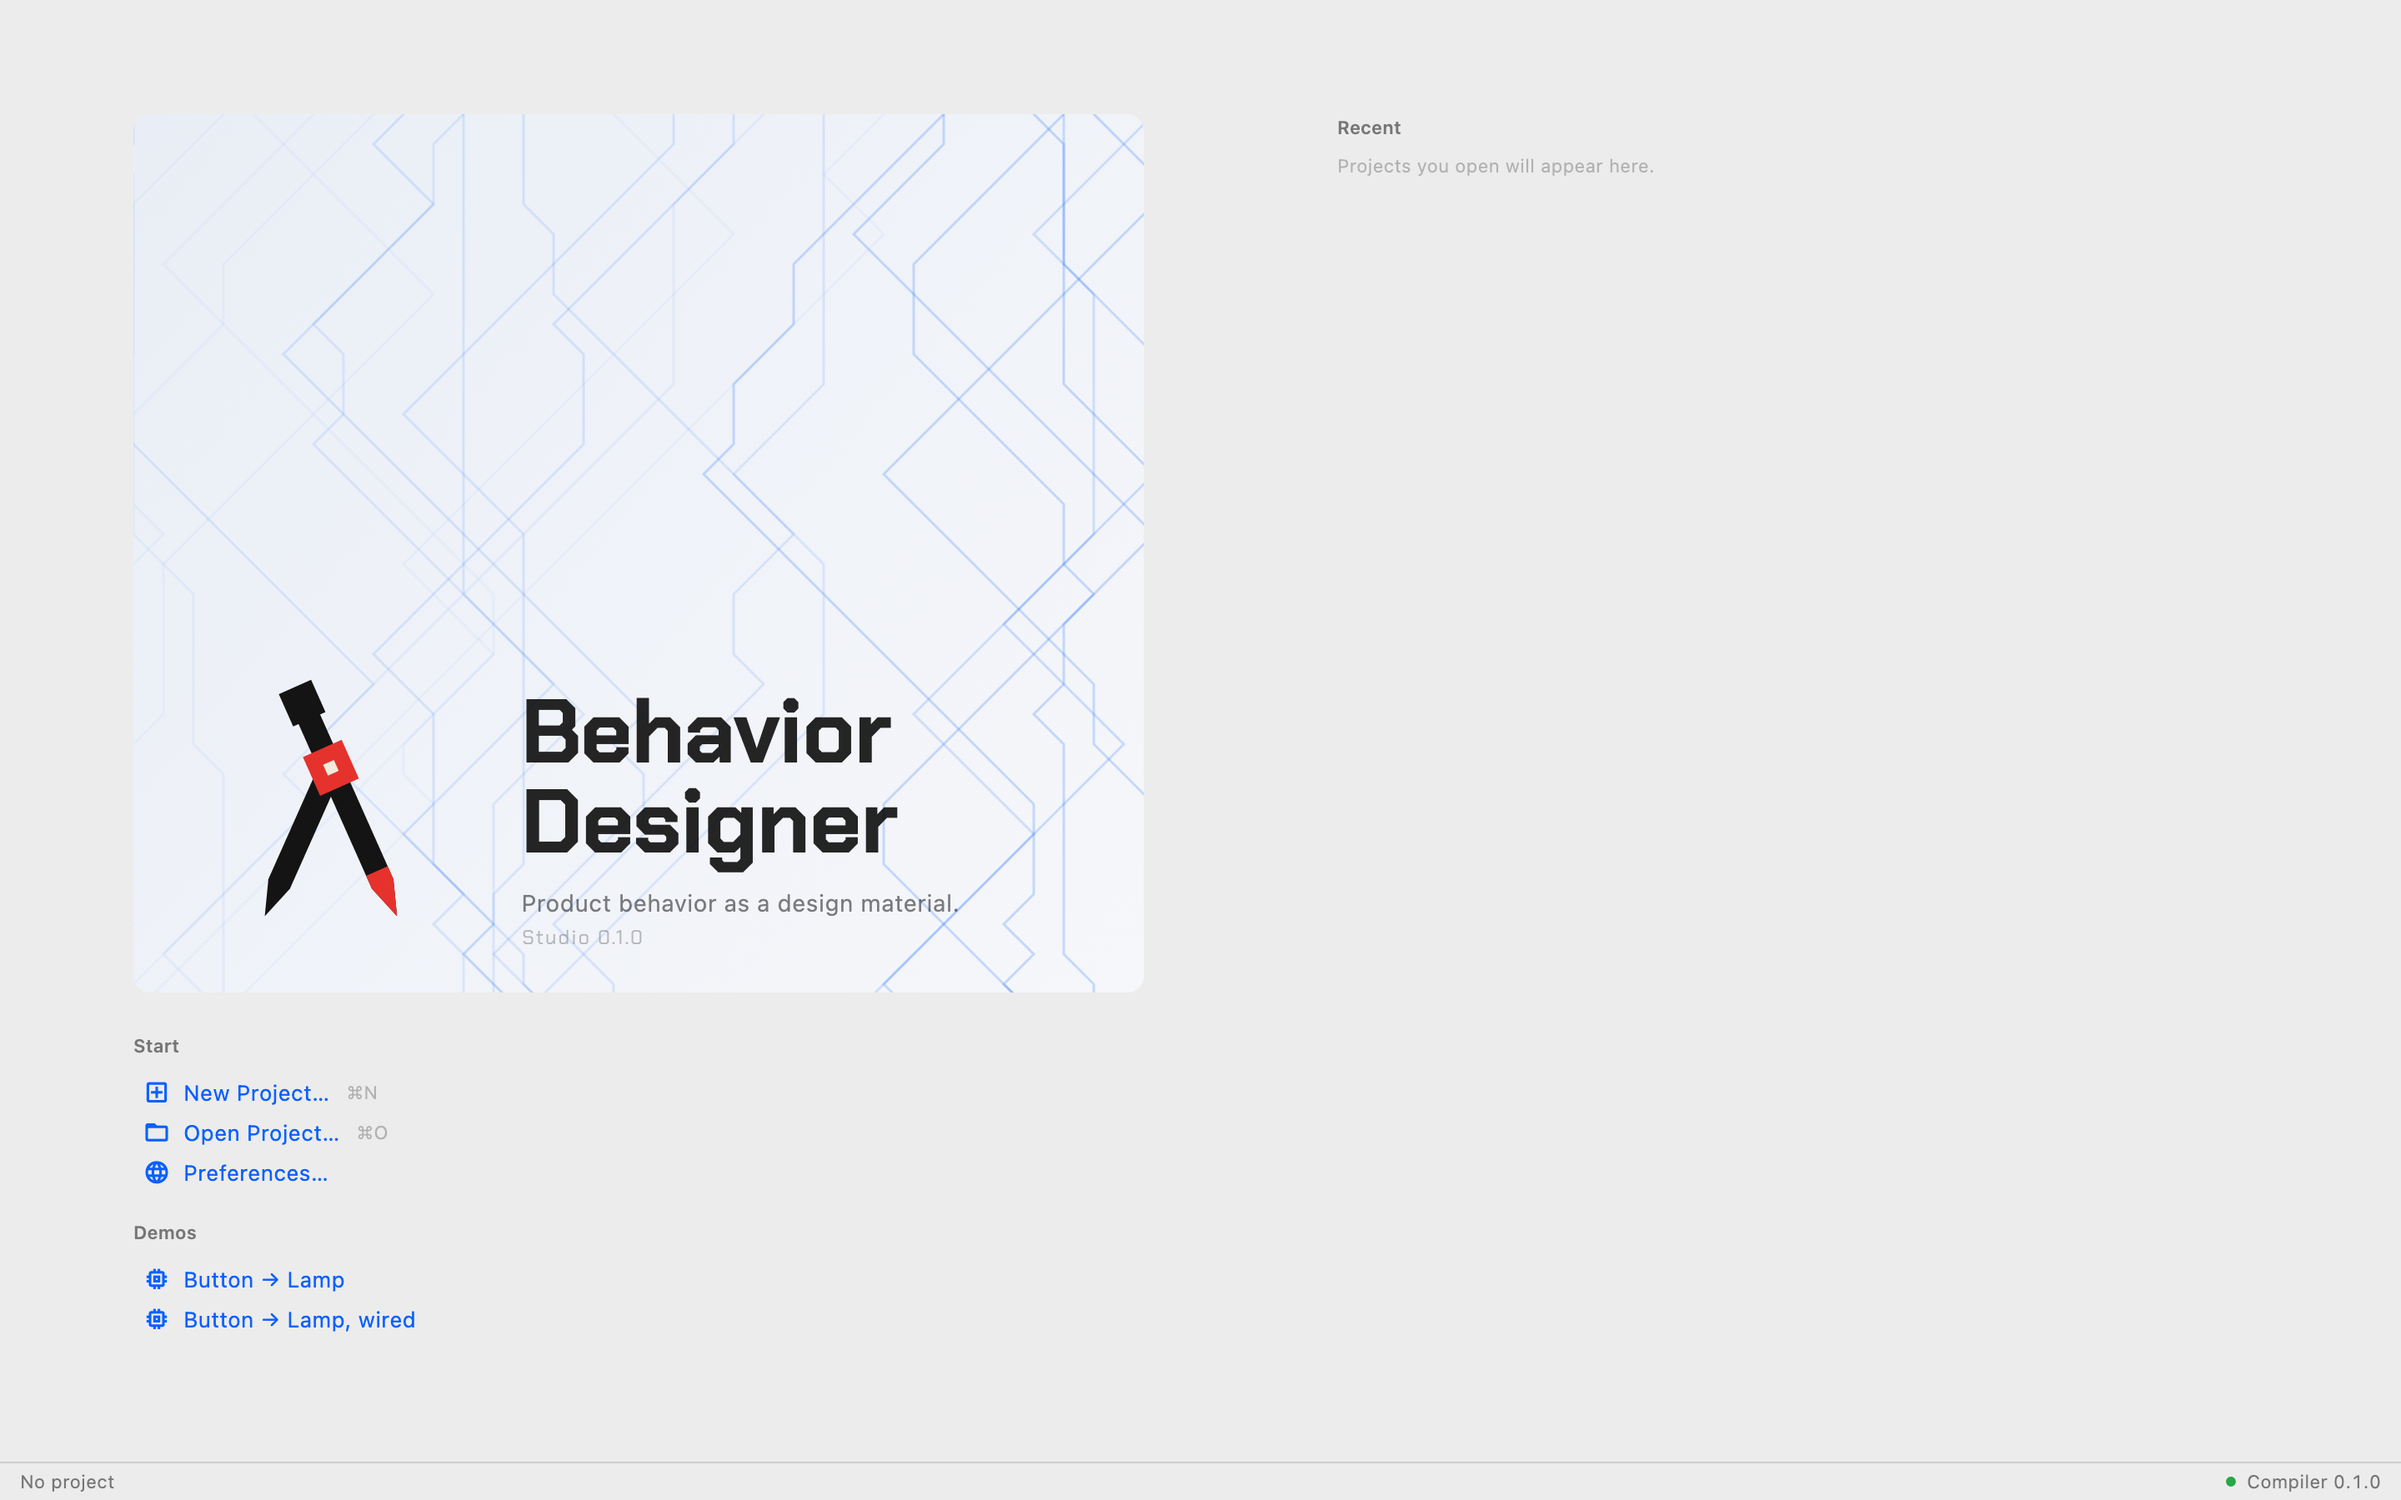
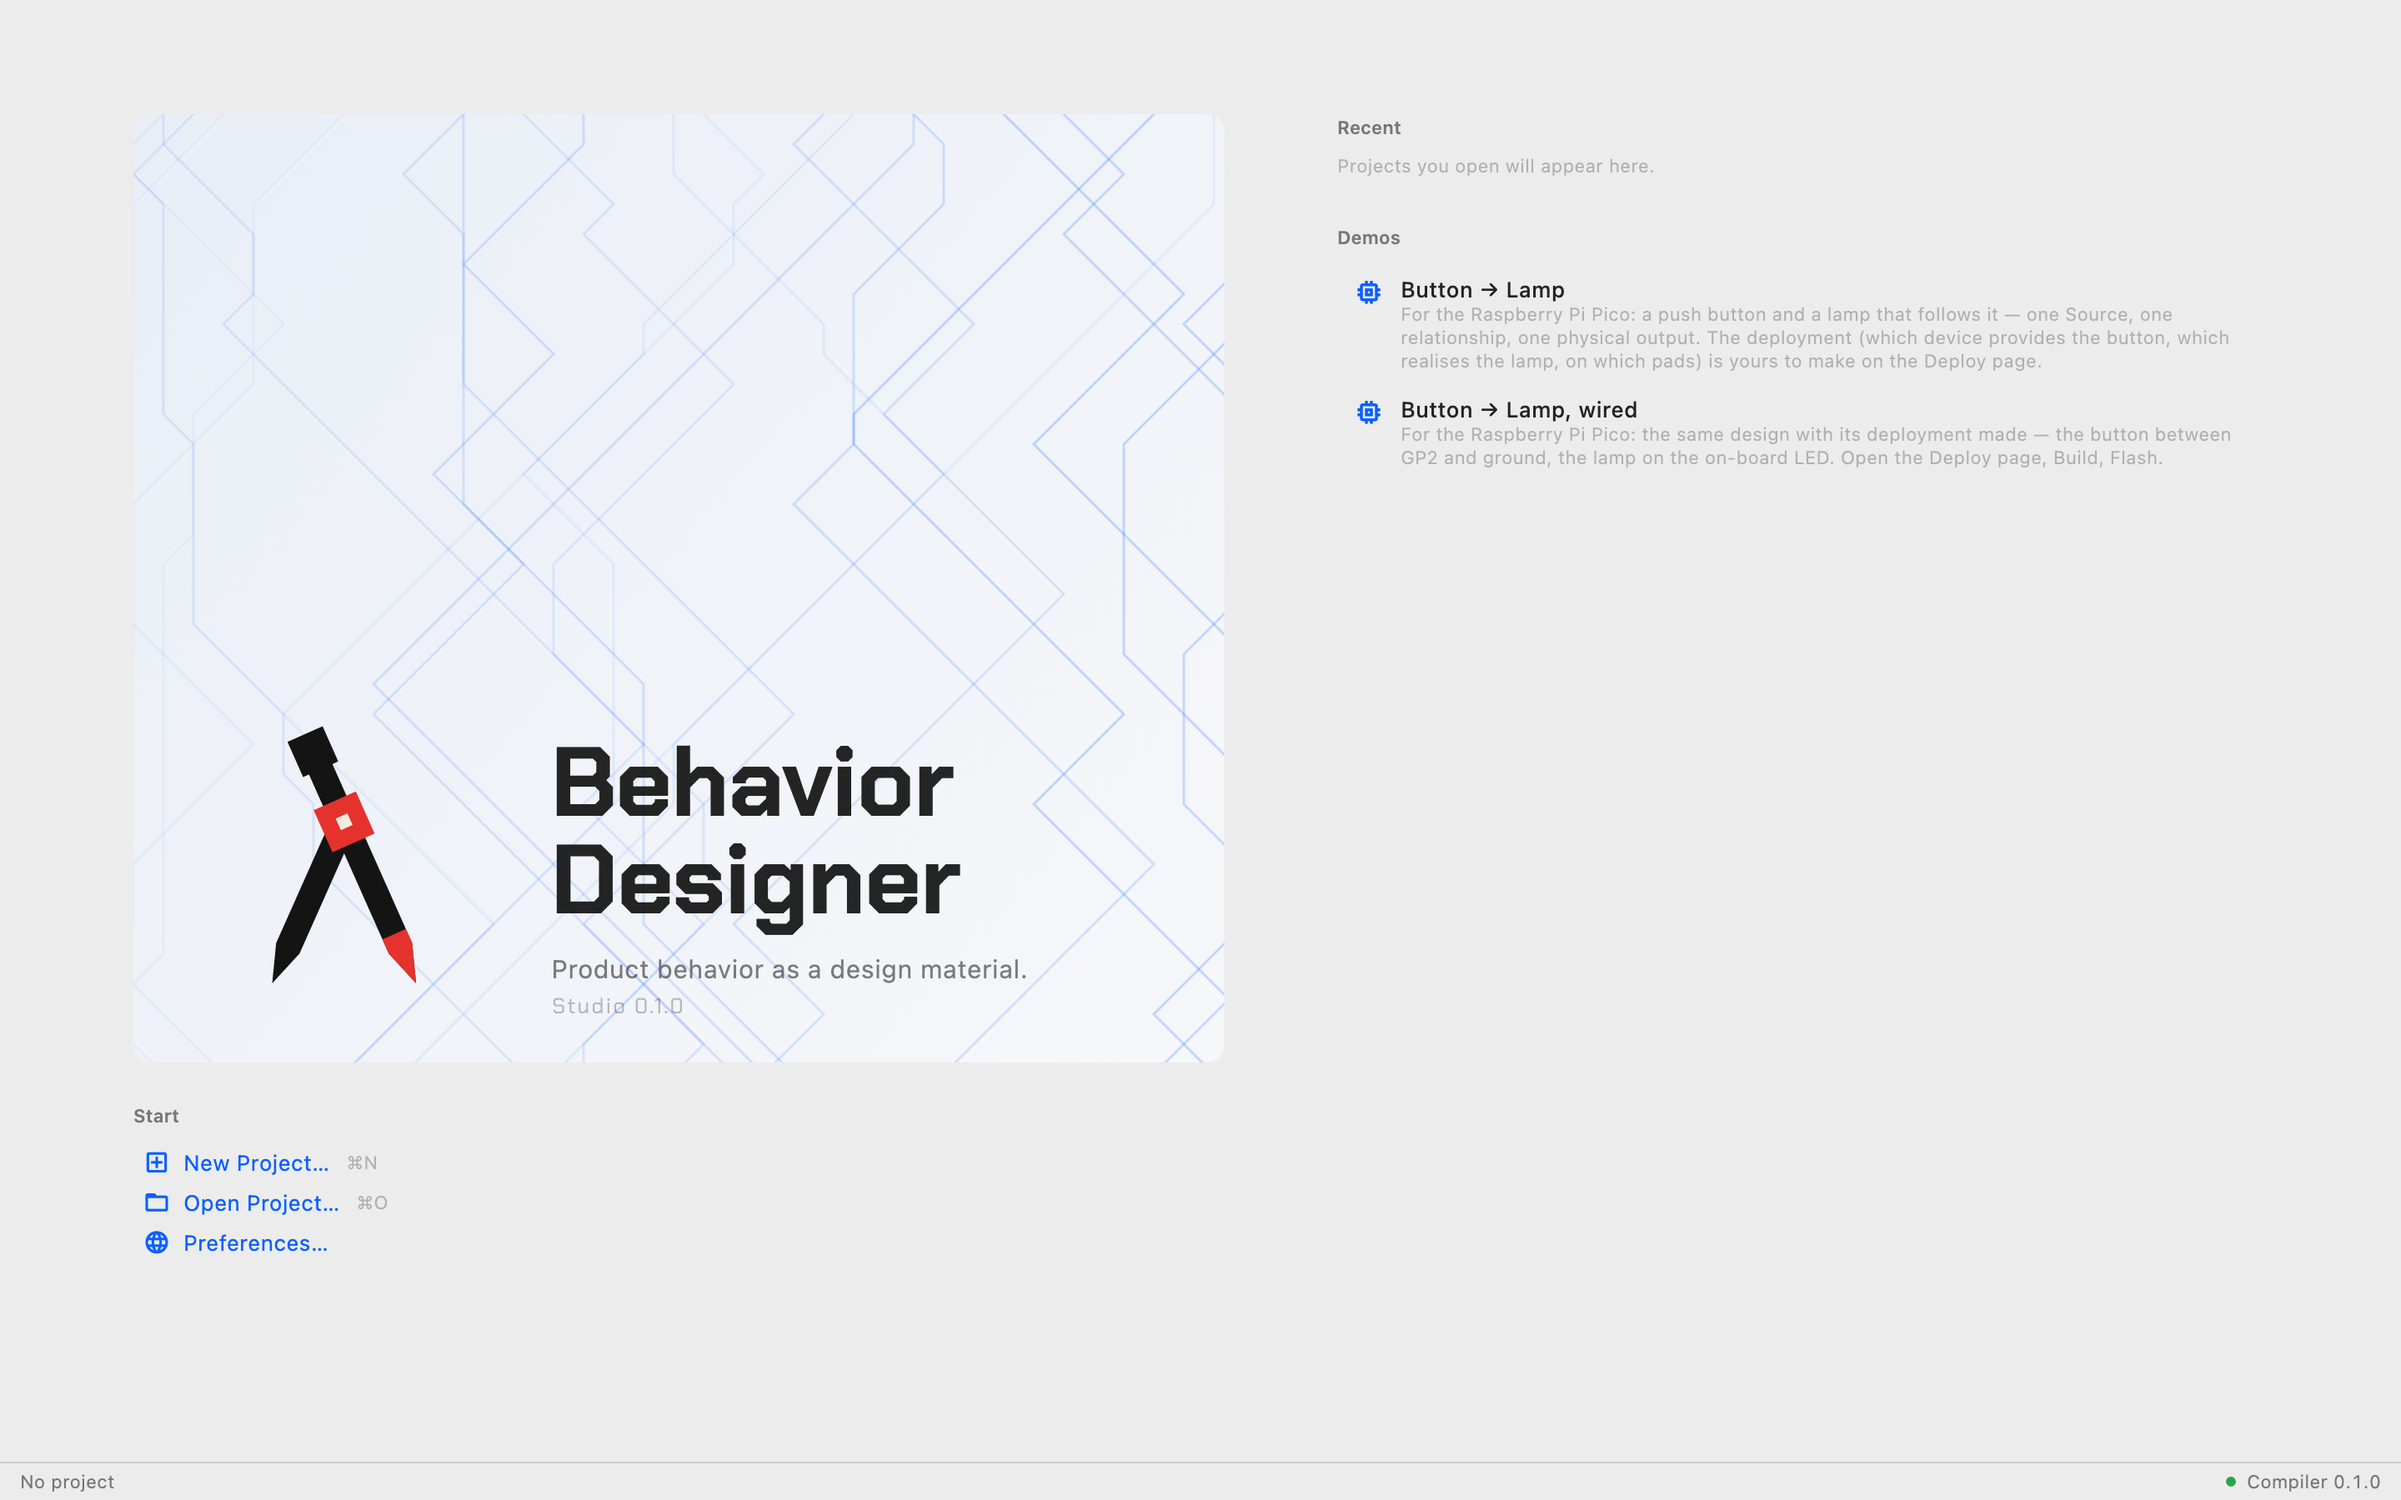
feat(studio): the Welcome page's Demos move under Recent; the left column never scrolls
Laid out like VS Code's welcome page: the hero and Start (New, Open,
Preferences) on the left; Recent and, beneath it, the Demos on the right,
where VS Code keeps its walkthroughs.  A demo row is its name and its
description, read without hovering, in the Recent row's layout so the two
lists read as one column.  The hero is sized against the page's 820 pt
cap (not the window), so the left column fits without a scrollbar; the
right column is the one that scrolls when Recent is long.

diff --git a/apps/studio/lib/ui/welcome/welcome_page.dart b/apps/studio/lib/ui/welcome/welcome_page.dart
@@ -1,6 +1,9 @@
 /// The launcher shown when no project is open — DaVinci's Project Manager,
-/// laid out like VS Code's welcome page: hero and Start on the left,
-/// Recent on the right.  Presentation only.
+/// laid out like VS Code's welcome page: the hero and Start (New, Open,
+/// Preferences) on the left; Recent and, beneath it, the Demos on the
+/// right — where VS Code keeps its walkthroughs, so a first launch reads
+/// *start here* → *or try one of these* and the left column never scrolls.
+/// Presentation only.
 library;
 
 import 'dart:io';
@@ -34,23 +37,21 @@ class WelcomePage extends StatelessWidget {
       alignment: Alignment.center,
       child: LayoutBuilder(
         builder: (context, c) {
-          // Wide: hero + Start on the left, Recent on the right.
-          // Narrow (< 760 pt): one column, Recent below.
+          // Wide: hero + Start on the left, Recent and Demos on the right.
+          // Narrow (< 760 pt): one column, Recent and Demos below.
           final wide = c.maxWidth >= 760;
           final pad = c.maxWidth < 600 ? 20.0 : 40.0;
-          // The Start list (New, Open, Preferences, the demos) must stay
-          // above the fold at the smallest supported window: the hero
-          // keeps its aspect ratio but gives up height before the list
-          // does.
+          // The Start list (New, Open, Preferences) must stay above the
+          // fold at the smallest supported window, and the left column
+          // never scrolls: the hero keeps its aspect ratio but gives up
+          // height before the list does, within the page's own height cap.
           final startHeight =
               24.0 +
               48 +
-              33.0 *
-                  (3 +
-                      (state.editor.deploy.templates.isEmpty
-                          ? 0
-                          : 1 + state.editor.deploy.templates.length));
-          final heroMaxHeight = (c.maxHeight - 2 * pad - startHeight).clamp(240.0, 720.0);
+              33.0 * (3 + (state.editor.pickerUnavailable ? 2 : 0)) +
+              (connected ? 0 : 24);
+          final pageHeight = wide ? c.maxHeight.clamp(0.0, _maxPageHeight) : c.maxHeight;
+          final heroMaxHeight = (pageHeight - 2 * pad - startHeight).clamp(240.0, 720.0);
           final left = Column(
             crossAxisAlignment: CrossAxisAlignment.stretch,
             mainAxisSize: MainAxisSize.min,
@@ -68,23 +69,26 @@ class WelcomePage extends StatelessWidget {
               _Start(
                 connected: connected,
                 dispatch: dispatch,
-                templates: state.editor.deploy.templates,
                 pathFallback: state.editor.pickerUnavailable,
               ),
             ],
           );
-          final recent = _Recent(state: state, dispatch: dispatch);
           if (wide) {
             return ConstrainedBox(
-              constraints: const BoxConstraints(maxWidth: 1360, maxHeight: 820),
+              constraints: const BoxConstraints(maxWidth: 1360, maxHeight: _maxPageHeight),
               child: Padding(
                 padding: EdgeInsets.all(pad),
                 child: Row(
                   crossAxisAlignment: CrossAxisAlignment.stretch,
                   children: [
-                    Expanded(flex: 11, child: SingleChildScrollView(child: left)),
+                    Expanded(flex: 11, child: left),
                     SizedBox(width: pad),
-                    Expanded(flex: 9, child: recent),
+                    // the right column is the one that may scroll: a long
+                    // Recent list pushes the Demos down, never the Start
+                    Expanded(
+                      flex: 9,
+                      child: _Aside(state: state, dispatch: dispatch),
+                    ),
                   ],
                 ),
               ),
@@ -100,7 +104,7 @@ class WelcomePage extends StatelessWidget {
                 children: [
                   left,
                   const SizedBox(height: 28),
-                  SizedBox(height: 260, child: recent),
+                  _Aside(state: state, dispatch: dispatch, scrolls: false),
                 ],
               ),
             ),
@@ -111,16 +115,13 @@ class WelcomePage extends StatelessWidget {
   }
 }
 
-class _Start extends StatelessWidget {
-  const _Start({
-    required this.connected,
-    required this.dispatch,
-    this.templates = const [],
-    this.pathFallback = false,
-  });
+/// The page's height cap on a wide window: the hero is sized against it, so
+/// the left column fits without scrolling.
+const double _maxPageHeight = 820;
 
-  /// The designs a new project can start from, as bdld lists them.
-  final List<pb.TemplateView> templates;
+class _Start extends StatelessWidget {
+  const _Start({required this.connected, required this.dispatch, this.pathFallback = false});
+
   final bool connected;
   final void Function(AppAction) dispatch;
 
@@ -178,25 +179,6 @@ class _Start extends StatelessWidget {
           label: context.l10n.preferencesMenu,
           onTap: () => showPreferencesSheet(context, dispatch: dispatch),
         ),
-        if (templates.isNotEmpty) ...[
-          const SizedBox(height: MacMetrics.gapGroup),
-          Text(context.l10n.demos, style: Theme.of(context).textTheme.titleSmall),
-          const SizedBox(height: 8),
-          // A demo is a template: the same New Project, with a design in
-          // it (and, for the wired one, its deployment).
-          for (final tpl in templates)
-            Tooltip(
-              message: tpl.description,
-              waitDuration: const Duration(milliseconds: 600),
-              child: MacLink(
-                key: ValueKey('template-${tpl.id}'),
-                icon: Icons.memory_outlined,
-                label: tpl.displayName,
-                enabled: connected,
-                onTap: () => dispatch(NewProjectPickRequested(template: tpl.id)),
-              ),
-            ),
-        ],
         if (!connected)
           Padding(
             padding: const EdgeInsets.only(top: 6),
@@ -210,39 +192,108 @@ class _Start extends StatelessWidget {
   }
 }
 
-class _Recent extends StatelessWidget {
-  const _Recent({required this.state, required this.dispatch});
+/// The right column: Recent, then the Demos — what a returning designer
+/// reaches for first, then what a new one tries.  On a wide window it is
+/// the one part of the page that scrolls.
+class _Aside extends StatelessWidget {
+  const _Aside({required this.state, required this.dispatch, this.scrolls = true});
   final AppState state;
   final void Function(AppAction) dispatch;
+  final bool scrolls;
 
   @override
   Widget build(BuildContext context) {
     final t = MacTokens.of(context);
     final connected = state.connection is Connected;
-    return Column(
-      crossAxisAlignment: CrossAxisAlignment.start,
-      children: [
-        Text(context.l10n.recent, style: Theme.of(context).textTheme.titleSmall),
+    final templates = state.editor.deploy.templates;
+    final children = [
+      Text(context.l10n.recent, style: Theme.of(context).textTheme.titleSmall),
+      const SizedBox(height: 8),
+      if (state.recent.isEmpty)
+        Text(
+          context.l10n.projectsYouOpenWillAppearHere,
+          style: TextStyle(fontSize: MacType.secondary, color: t.textTertiary),
+        )
+      else
+        for (final r in state.recent)
+          _RecentRow(
+            project: r,
+            enabled: connected,
+            onOpen: () => dispatch(OpenProjectRequested(r.path)),
+            onRemove: () => dispatch(RemoveRecentRequested(r.path)),
+          ),
+      if (templates.isNotEmpty) ...[
+        const SizedBox(height: 28),
+        Text(context.l10n.demos, style: Theme.of(context).textTheme.titleSmall),
         const SizedBox(height: 8),
-        Expanded(
-          child: state.recent.isEmpty
-              ? Text(
-                  context.l10n.projectsYouOpenWillAppearHere,
-                  style: TextStyle(fontSize: MacType.secondary, color: t.textTertiary),
-                )
-              : ListView(
-                  children: [
-                    for (final r in state.recent)
-                      _RecentRow(
-                        project: r,
-                        enabled: connected,
-                        onOpen: () => dispatch(OpenProjectRequested(r.path)),
-                        onRemove: () => dispatch(RemoveRecentRequested(r.path)),
-                      ),
-                  ],
-                ),
-        ),
+        // A demo is a template: the same New Project, with a design in
+        // it (and, for the wired one, its deployment).
+        for (final tpl in templates)
+          _DemoRow(
+            key: ValueKey('template-${tpl.id}'),
+            template: tpl,
+            enabled: connected,
+            onTap: () => dispatch(NewProjectPickRequested(template: tpl.id)),
+          ),
       ],
+    ];
+    return ListView(
+      shrinkWrap: !scrolls,
+      physics: scrolls ? null : const NeverScrollableScrollPhysics(),
+      children: children,
+    );
+  }
+}
+
+/// One demo: its name and what it is, laid out like a Recent row so the
+/// two lists read as one column.
+class _DemoRow extends StatelessWidget {
+  const _DemoRow({super.key, required this.template, required this.enabled, required this.onTap});
+  final pb.TemplateView template;
+  final bool enabled;
+  final VoidCallback onTap;
+
+  @override
+  Widget build(BuildContext context) {
+    final t = MacTokens.of(context);
+    return MacInteractive(
+      onTap: enabled ? onTap : null,
+      radius: 6,
+      padding: const EdgeInsets.symmetric(horizontal: 10, vertical: 7),
+      child: Row(
+        crossAxisAlignment: CrossAxisAlignment.start,
+        children: [
+          Padding(
+            padding: const EdgeInsets.only(top: 1),
+            child: Icon(
+              Icons.memory_outlined,
+              size: 18,
+              color: enabled ? t.accent : t.textTertiary,
+            ),
+          ),
+          const SizedBox(width: 10),
+          Expanded(
+            child: Column(
+              crossAxisAlignment: CrossAxisAlignment.start,
+              children: [
+                Text(
+                  template.displayName,
+                  style: TextStyle(
+                    fontSize: MacType.body,
+                    fontWeight: FontWeight.w500,
+                    color: enabled ? t.textPrimary : t.textTertiary,
+                  ),
+                ),
+                if (template.description.isNotEmpty)
+                  Text(
+                    template.description,
+                    style: TextStyle(fontSize: MacType.secondary, color: t.textTertiary),
+                  ),
+              ],
+            ),
+          ),
+        ],
+      ),
     );
   }
 }
